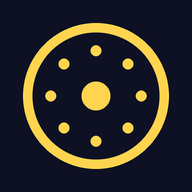
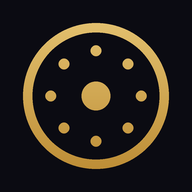
Add files via upload

diff --git a/index.html b/index.html
@@ -3,105 +3,114 @@
 <head>
 <meta charset="UTF-8">
 <meta name="viewport" content="width=device-width, initial-scale=1.0, maximum-scale=1.0, user-scalable=no">
-<meta name="theme-color" content="#0e1123">
+<meta name="theme-color" content="#0B0B12">
 <link rel="manifest" href="manifest.json">
 <link rel="apple-touch-icon" href="icon-192.png">
 <meta name="apple-mobile-web-app-capable" content="yes">
-<title>八咫鏡 — ロット計算機</title>
+<link rel="preconnect" href="https://fonts.googleapis.com"><link rel="preconnect" href="https://fonts.gstatic.com" crossorigin>
+<link href="https://fonts.googleapis.com/css2?family=Shippori+Mincho:wght@500;700&display=swap" rel="stylesheet">
+<title>八咫鏡・序</title>
 <style>
   :root{
-    --ink:#0e1123; --panel:#1a1a2e; --panel2:#16213e; --line:#333366;
-    --buy:#00E676; --sell:#FF1744; --qty:#FFD54F; --sl:#E040FB; --cy:#4fc3f7;
-    --txt:#e8e8f0; --dim:#8a8aa8; --warn:#FF1744;
-    --mono:ui-monospace,"SF Mono","Cascadia Mono","Roboto Mono",Menlo,monospace;
+    --ink:#0B0B12; --panel:#14141F; --panel2:#1A1726; --line:rgba(255,255,255,.08);
+    --txt:#E8E6F0; --dim:#8A889C; --faint:#5E5C70;
+    --g1:#E8C877; --g2:#B8862E; --take:#5FCF9A; --sora:#6FAEDC; --shu:#E0796B; --fuji:#A398D8;
+    --mono:ui-monospace,"SF Mono","Roboto Mono",Menlo,monospace;
     --sans:-apple-system,BlinkMacSystemFont,"Hiragino Sans","Noto Sans JP",sans-serif;
+    --mincho:"Shippori Mincho",serif;
   }
   *{margin:0;padding:0;box-sizing:border-box;-webkit-tap-highlight-color:transparent}
-  body{background:var(--ink);color:var(--txt);font-family:var(--sans);min-height:100vh;padding:14px 14px 40px;max-width:480px;margin:0 auto}
-  header{display:flex;align-items:baseline;gap:8px;margin-bottom:12px}
-  header h1{font-size:15px;font-weight:600;letter-spacing:.04em}
-  header .sub{font-size:11px;color:var(--dim)}
-  .tabs{display:grid;grid-template-columns:1fr 1fr;gap:8px;margin-bottom:12px}
-  .tab{padding:10px 4px;text-align:center;background:var(--panel);border:1px solid var(--line);border-radius:10px;font-size:14px;font-weight:600;color:var(--dim);cursor:pointer}
-  .tab .tf{display:block;font-size:10px;font-weight:400;margin-top:2px;color:var(--dim)}
-  .tab.on{color:var(--txt);border-color:#5555aa;background:var(--panel2)}
-  .tab.on.late{border-color:var(--cy)}
-  .card{background:var(--panel);border:1px solid var(--line);border-radius:12px;padding:14px;margin-bottom:12px}
-  .cap-label{font-size:11px;color:var(--dim);letter-spacing:.12em;margin-bottom:10px}
-  /* 完全に揃うグリッド: ラベル / 入力 / 単位 */
-  .row{display:grid;grid-template-columns:1fr 150px 40px;align-items:center;gap:10px;padding:6px 0}
+  body{background:var(--ink);color:var(--txt);font-family:var(--sans);min-height:100vh;padding:16px 13px 44px;max-width:480px;margin:0 auto}
+  .goldtext{background:linear-gradient(135deg,var(--g1) 25%,var(--g2) 95%);-webkit-background-clip:text;background-clip:text;color:transparent}
+  header{display:flex;align-items:center;gap:9px;margin-bottom:2px}
+  header img{width:24px;height:24px;border-radius:6px}
+  header h1{font-family:var(--mincho);font-size:21px;font-weight:700;letter-spacing:.05em}
+  header h1 span{font-size:14px}
+  .subttl{font-size:10.5px;color:var(--faint);margin:0 0 14px 33px}
+  .sec{display:flex;align-items:center;gap:10px;margin:16px 0 8px}
+  .sec h2{font-family:var(--mincho);font-size:11.5px;margin:0;letter-spacing:.3em;font-weight:600;color:var(--g1)}
+  .sec .rule{flex:1;height:1px;background:var(--line)}
+
+  .symtabs{display:flex;gap:7px;margin-bottom:8px}
+  .symtab{flex:1;background:var(--panel);color:var(--dim);border:1px solid var(--line);border-radius:10px;padding:9px 4px;font-size:12.5px;font-weight:600;text-align:center;cursor:pointer}
+  .symtab.on{background:var(--panel2);border-color:rgba(232,200,119,.5);color:var(--g1)}
+  .subtabs{display:flex;gap:7px;margin-bottom:14px}
+  .subtab{flex:1;background:var(--panel);color:var(--dim);border:1px solid var(--line);border-radius:10px;padding:7px 4px;font-size:11.5px;text-align:center;cursor:pointer}
+  .subtab.on{background:var(--panel2);border-color:rgba(111,174,220,.5);color:var(--sora)}
+
+  .card{background:var(--panel);border:1px solid var(--line);border-radius:12px;padding:13px;margin-bottom:10px}
+  .cap-label{font-size:10.5px;color:var(--faint);letter-spacing:.1em;margin-bottom:9px}
+
+  .out{background:var(--panel);border:1px solid rgba(232,200,119,.3);border-radius:14px;padding:16px 14px;margin-bottom:10px;text-align:center}
+  .out .cap{font-size:10.5px;color:var(--faint);letter-spacing:.15em}
+  .out .big{font-family:var(--mono);font-size:62px;font-weight:700;line-height:1.1;margin:4px 0;
+    background:linear-gradient(135deg,var(--g1) 20%,var(--g2) 100%);-webkit-background-clip:text;background-clip:text;color:transparent}
+  .out .big.ng{font-size:20px;padding:14px 0;line-height:1.6;background:none;color:var(--shu);-webkit-text-fill-color:var(--shu)}
+  .out .mid{font-family:var(--mono);font-size:14px;color:var(--dim)}
+  .out .mid b{color:var(--g1);font-weight:600}
+  .out .risk{font-size:11.5px;color:var(--faint);margin-top:6px}
+
+  #verdict{display:none;border-radius:11px;padding:12px;margin-top:10px;text-align:center;font-size:14px;font-weight:600;line-height:1.7}
+  #shield{display:none;border:1px solid rgba(111,174,220,.4);background:rgba(111,174,220,.06);border-radius:11px;padding:9px 12px;margin-bottom:10px;font-size:11.5px;color:var(--sora);text-align:center;line-height:1.6}
+  .mirror{display:none;border:1px solid rgba(224,121,107,.4);background:rgba(224,121,107,.06);border-radius:11px;padding:9px 12px;margin-bottom:10px;font-size:11.5px;color:var(--shu);text-align:center;line-height:1.6}
+  .mirror b{font-family:var(--mono);font-size:13.5px}
+
   .grid2{display:grid;grid-template-columns:1fr 1fr;gap:8px}
-  .cell label{font-size:10px;color:var(--dim);display:block;margin-bottom:3px}
-  .cell input{width:100%;padding:8px 10px;background:var(--ink);border:1px solid var(--line);border-radius:8px;color:var(--txt);font-family:var(--mono);font-size:17px;text-align:right;outline:none;box-sizing:border-box}
-  .cell.auto input{border-style:dashed;color:var(--cy)}
-  .row label{font-size:13px;color:var(--dim)}
-  .row input{width:100%;padding:10px 12px;background:var(--ink);border:1px solid var(--line);border-radius:8px;color:var(--txt);font-family:var(--mono);font-size:20px;text-align:right;outline:none}
-  .row input:focus{border-color:#5555aa}
-  .row .unit{font-size:12px;color:var(--dim)}
-  .row.hl input{border-color:var(--sl);color:var(--sl)}
-  .row.auto input{border-style:dashed;color:var(--cy)}
-  #paste{width:100%;padding:11px 12px;background:var(--ink);border:1px dashed #5555aa;border-radius:8px;color:var(--txt);font-size:13px;margin-bottom:8px}
-  #fetchBtn{width:100%;padding:11px;background:var(--panel2);border:1px solid #5555aa;border-radius:8px;color:var(--cy);font-size:13px;font-weight:600;cursor:pointer}
-  .out{background:var(--panel2);border:1px solid var(--line);border-radius:12px;padding:16px 14px;margin-bottom:12px;text-align:center}
-  .out .cap{font-size:11px;color:var(--dim);letter-spacing:.15em}
-  .out .big{font-family:var(--mono);font-size:64px;font-weight:700;color:var(--qty);line-height:1.15;margin:2px 0}
-  .out .big.ng{font-size:23px;color:var(--warn);padding:18px 0;line-height:1.5}
-  .out .mid{font-family:var(--mono);font-size:15px;color:var(--txt)}
-  .out .mid b{color:var(--qty);font-weight:600}
-  .out .risk{font-size:12px;color:var(--dim);margin-top:6px}
-  #verdict{display:none;border-radius:10px;padding:12px;margin-top:10px;text-align:center;font-size:15px;font-weight:600;line-height:1.7}
-  #shield{display:none;border:1px solid var(--cy);background:rgba(79,195,247,.08);border-radius:10px;padding:9px 12px;margin-bottom:12px;font-size:12px;color:var(--cy);text-align:center;line-height:1.6}
-  .mirror{display:none;border:1px solid rgba(255,23,68,.45);background:rgba(255,23,68,.08);border-radius:10px;padding:9px 12px;margin-bottom:12px;font-size:12px;color:#ff8fa3;text-align:center;line-height:1.6}
-  .mirror b{font-family:var(--mono);color:var(--warn);font-size:14px}
-  .srow{display:flex;justify-content:space-between;align-items:baseline;font-size:13px;color:var(--dim);padding:4px 0}
-  .srow b{font-family:var(--mono);font-size:15px;color:var(--txt)}
-  .srow b.pos{color:var(--buy)} .srow b.neg{color:var(--sell)}
-  details{background:var(--panel);border:1px solid var(--line);border-radius:12px;padding:12px 14px;margin-bottom:10px}
-  summary{font-size:13px;color:var(--dim);cursor:pointer;list-style:none}
+  .cell label{font-size:10px;color:var(--faint);display:block;margin-bottom:4px}
+  .cell input{width:100%;padding:9px 10px;background:var(--ink);border:1px solid var(--line);border-radius:9px;color:var(--txt);font-family:var(--mono);font-size:17px;text-align:right;outline:none}
+  .cell input:focus{border-color:rgba(232,200,119,.5)}
+  .cell.auto input{border-style:dashed;color:var(--sora)}
+  .row{display:grid;grid-template-columns:1fr 140px 30px;align-items:center;gap:9px;padding:5px 0}
+  .row label{font-size:12px;color:var(--dim)}
+  .row input{width:100%;padding:9px 11px;background:var(--ink);border:1px solid var(--line);border-radius:9px;color:var(--txt);font-family:var(--mono);font-size:18px;text-align:right;outline:none}
+  .row input:focus{border-color:rgba(232,200,119,.5)}
+  .row .unit{font-size:11px;color:var(--faint)}
+  .row.hl input{border-color:rgba(163,152,216,.6);color:var(--fuji)}
+  .row.auto input{border-style:dashed;color:var(--sora)}
+
+  #paste{width:100%;padding:10px 12px;background:var(--ink);border:1px dashed rgba(255,255,255,.15);border-radius:9px;color:var(--txt);font-size:12.5px;margin-bottom:8px;font-family:var(--mono)}
+  #fetchBtn{width:100%;padding:11px;background:var(--panel2);border:1px solid rgba(232,200,119,.4);border-radius:9px;color:var(--g1);font-size:12.5px;font-weight:600;cursor:pointer;letter-spacing:.05em}
+  #fetchBtn:active{background:#221E30}
+
+  .srow{display:flex;justify-content:space-between;align-items:baseline;font-size:12.5px;color:var(--dim);padding:4px 0}
+  .srow b{font-family:var(--mono);font-size:14px;color:var(--txt)}
+  .srow b.pos{color:var(--take)} .srow b.neg{color:var(--shu)}
+  details{background:var(--panel);border:1px solid var(--line);border-radius:12px;padding:11px 13px;margin-bottom:10px}
+  summary{font-size:12px;color:var(--dim);cursor:pointer;list-style:none}
   summary::-webkit-details-marker{display:none}
-  summary::before{content:'▸ ';color:var(--dim)}
-  details[open] summary::before{content:'▾ '}
-  details ol{margin:10px 0 4px 20px;font-size:13px;line-height:2}
-  details li b{color:var(--qty)}
+  summary::before{content:'\25b8 ';color:var(--faint)}
+  details[open] summary::before{content:'\25be '}
+  details ol{margin:10px 0 4px 20px;font-size:12.5px;line-height:2;color:var(--dim)}
+  details li b{color:var(--g1)}
   details.sub{border:none;background:none;padding:6px 0 0;margin:0}
-  details.sub summary{font-size:11px;color:#55557a}
-  footer{font-size:10px;color:#55557a;text-align:center;margin-top:8px;line-height:1.7}
+  details.sub summary{font-size:10.5px;color:var(--faint)}
+  footer{font-family:var(--mincho);font-size:9.5px;color:#3A3848;text-align:center;margin-top:22px;line-height:2;letter-spacing:.1em}
   .hide{display:none !important}
 </style>
 </head>
 <body>
-<header><h1>八咫鏡</h1><span class="sub">真のリスクを映す — リスク固定・複利対応</span></header>
+<header><img src="icon-192.png" alt=""><h1 class="goldtext">八咫鏡<span>・序</span></h1></header>
+<div class="subttl">真のリスクを映す ── 資金 × risk% ÷ SL幅</div>
 
-<div class="tabs">
-  <div class="tab on" id="t_fx_main" onclick="setTab('fx','main')">USDJPY<span class="tf">定時乗車</span></div>
-  <div class="tab" id="t_fx_late" onclick="setTab('fx','late')">USDJPY<span class="tf">後乗り判定</span></div>
-  <div class="tab" id="t_au_main" onclick="setTab('au','main')">金 XAUUSD<span class="tf">定時乗車</span></div>
-  <div class="tab" id="t_au_late" onclick="setTab('au','late')">金 XAUUSD<span class="tf">後乗り判定</span></div>
+<div class="symtabs">
+  <div class="symtab on" id="s_fx" onclick="setTab('fx',sub)">円 USDJPY</div>
+  <div class="symtab" id="s_au" onclick="setTab('au',sub)">金 XAUUSD</div>
+</div>
+<div class="subtabs">
+  <div class="subtab on" id="b_main" onclick="setTab(mode,'main')">定時乗車</div>
+  <div class="subtab" id="b_late" onclick="setTab(mode,'late')">後乗り判定</div>
 </div>
 
 <div class="card">
-  <input id="paste" type="text" placeholder="📋 TV通知を貼る or 下のボタンで自動取得">
-  <button id="fetchBtn">🔄 最新シグナルを自動取得</button>
+  <input id="paste" type="text" placeholder="TV通知を貼る / 下のボタンで取得">
+  <button id="fetchBtn">最新シグナルを取得</button>
   <details class="sub"><summary>接続設定(初回のみ)</summary>
     <div class="row"><label>Worker URL</label><input id="wurl" type="text" placeholder="https://..." style="font-size:11px"><span class="unit"></span></div>
     <div class="row"><label>合言葉(key)</label><input id="wkey" type="text" placeholder="KEY" style="font-size:11px"><span class="unit"></span></div>
   </details>
 </div>
 
-<div class="card" id="slCard" style="display:none">
-  <div class="cap-label">📍 現在のSL(TVのSL移動通知から自動)</div>
-  <div id="slInfo" style="font-size:13px;line-height:1.8"></div>
-</div>
-
-<div class="card" id="lateCard">
-  <div class="cap-label">後乗り判定 — 上2つは通知から自動</div>
-  <div class="row auto"><label>シグナル価格</label><input id="sigP" type="tel" inputmode="decimal" placeholder="自動"><span class="unit"></span></div>
-  <div class="row auto"><label>SL価格</label><input id="slP" type="tel" inputmode="decimal" placeholder="自動"><span class="unit"></span></div>
-  <div class="row hl"><label>現在価格(手打ち)</label><input id="nowP" type="tel" inputmode="decimal" placeholder="今のレート"><span class="unit"></span></div>
-  <div id="verdict"></div>
-</div>
-
-
+<div class="sec"><h2>答</h2><div class="rule"></div></div>
 
 <div class="out" id="out">
   <div class="cap" id="outCap">GMOに入力する数字</div>
@@ -109,8 +118,23 @@
   <div class="mid" id="mid">通知を貼れば自動で出る</div>
   <div class="risk" id="riskLine"></div>
 </div>
-
 <div class="mirror" id="mirror"></div>
+<div id="shield"></div>
+
+<div class="card" id="lateCard">
+  <div class="cap-label">後乗り判定 ── 上2つは通知から自動</div>
+  <div class="row auto"><label>シグナル価格</label><input id="sigP" type="tel" inputmode="decimal" placeholder="自動"><span class="unit"></span></div>
+  <div class="row auto"><label>SL価格</label><input id="slP" type="tel" inputmode="decimal" placeholder="自動"><span class="unit"></span></div>
+  <div class="row hl"><label>現在価格(手打ち)</label><input id="nowP" type="tel" inputmode="decimal" placeholder="今のレート"><span class="unit"></span></div>
+  <div id="verdict"></div>
+</div>
+
+<div class="card" id="slCard" style="display:none">
+  <div class="cap-label">現在のSL(TVの移動通知から自動)</div>
+  <div id="slInfo" style="font-size:13px;line-height:1.8"></div>
+</div>
+
+<div class="sec"><h2>条 件</h2><div class="rule"></div></div>
 
 <div class="card">
   <div class="grid2">
@@ -119,25 +143,23 @@
     <div class="cell auto" id="slwRow"><label id="slLabel">SL幅 <span id="slUnit">pips</span>(自動)</label><input id="slw" type="tel" inputmode="decimal" placeholder="自動"></div>
     <div class="cell" id="convRow" style="display:none"><label>円換算レート</label><input id="conv" type="tel" inputmode="decimal" value="161"></div>
   </div>
-  <details class="sub" id="shieldBox"><summary>🛡 盾を使う(DDブレーキ・任意)</summary>
+  <details class="sub" id="shieldBox"><summary>盾を使う(DDブレーキ・任意)</summary>
     <div class="row"><label>過去最高残高</label><input id="peak" type="tel" inputmode="numeric" placeholder="未使用なら空欄"><span class="unit">円</span></div>
-    <div style="font-size:10px;color:#55557a;line-height:1.6;padding-top:4px">入力すると、残高が過去最高から8%以上下の間だけリスクが自動半減。空欄なら固定リスクのまま。</div>
+    <div style="font-size:10px;color:var(--faint);line-height:1.6;padding-top:4px">入力すると、残高が過去最高から8%以上下の間だけリスクが自動半減。空欄なら固定リスクのまま。</div>
   </details>
 </div>
 
-<div id="shield"></div>
-
 <div class="card" id="statCard" style="display:none">
-  <div class="cap-label">この数量での統計の目安<span id="statSrc"></span></div>
+  <div class="cap-label">この数量での目安<span id="statSrc"></span></div>
   <div class="srow"><span>勝った時の平均(勝率<span id="stWr"></span>)</span><b class="pos" id="stWin"></b></div>
   <div class="srow"><span>負けた時の平均</span><b class="neg" id="stLose"></b></div>
   <div class="srow"><span>大勝(リスク3倍超)の頻度</span><b id="stBig"></b></div>
   <div class="srow" style="border-top:1px solid var(--line);padding-top:8px;margin-top:4px"><span>1回あたりの期待値</span><b class="pos" id="stEv"></b></div>
-  <div style="font-size:10px;color:#55557a;margin-top:8px;line-height:1.6">※19年の実データ平均。次の1回は誰にも分からない——<span style="color:var(--dim)">6割は負けで終わるのが仕様</span>。</div>
+  <div style="font-size:10px;color:var(--faint);margin-top:8px;line-height:1.6">19年の実データ平均。次の1回は誰にも分からない ── 6割は負けで終わるのが仕様。</div>
 </div>
 
 <details>
-  <summary>発注チェックリスト・遅刻分岐表</summary>
+  <summary>発注の作法・遅刻分岐</summary>
   <ol>
     <li>通知の方向・SL価格を確認</li>
     <li>数量を<b>二度見</b></li>
@@ -145,17 +167,18 @@
     <li>逆指値=押し安値/戻り高値・期限<b>無期限</b></li>
     <li>発注 → 記録表に記入</li>
   </ol>
-  <div style="font-size:12px;color:var(--dim);margin-top:10px;line-height:1.9">
-  <b style="color:var(--txt)">遅刻分岐表:</b><br>
-  即動ける→乗る / 50%以内→乗る(数量自動再計算) /<br>
+  <div style="font-size:11.5px;color:var(--dim);margin-top:10px;line-height:1.9">
+  <b style="color:var(--txt)">遅刻分岐:</b><br>
+  即動ける→乗る / 50%以内→乗る(数量再計算) /<br>
   50%超→見送り→再ブレイク<b>1〜2本目</b>で乗る /<br>
   SL割れ→死亡確認 / <b>押し目待ちは常に禁止</b>
   </div>
 </details>
 
-<footer>数式: 資金×リスク% ÷ SL幅<br>USDJPY=1000通貨切捨て / 金=0.1oz切捨て(0.1oz未満は見送り)</footer>
+<footer>陰 陽 寮<br>USDJPY=1000通貨切捨て / 金=0.1oz切捨て</footer>
 
 <script>
+
 let mode='fx', sub='main';
 const $=id=>document.getElementById(id);
 const fmt=n=>n.toLocaleString('ja-JP');
@@ -163,8 +186,10 @@ const STATS={fx:{wr:39,avgWin:1.45,avgLoss:-0.62,ev:0.189,big:4.7},au:{wr:36,avg
 
 function setTab(m,s){
   mode=m; sub=s;
-  ['t_fx_main','t_fx_late','t_au_main','t_au_late'].forEach(id=>$(id).classList.remove('on','late'));
-  const el=$('t_'+m+'_'+s); el.classList.add('on'); if(s==='late') el.classList.add('late');
+  ['s_fx','s_au'].forEach(id=>$(id).classList.remove('on'));
+  $('s_'+m).classList.add('on');
+  ['b_main','b_late'].forEach(id=>$(id).classList.remove('on'));
+  $('b_'+s).classList.add('on');
   $('lateCard').classList.toggle('hide', s!=='late');
   $('slwRow').classList.toggle('hide', s==='late');
   $('convRow').style.display = (m==='au')?'grid':'none';
@@ -321,6 +346,7 @@ function load(){
 ['cap','peak','risk','slw','conv'].forEach(id=>$(id).addEventListener('input',calc));
 ['sigP','slP','nowP'].forEach(id=>$(id).addEventListener('input',judgeLate));
 load(); setTab('fx','main');
+
 </script>
 <script>if('serviceWorker' in navigator){navigator.serviceWorker.register('sw.js').catch(()=>{})}</script>
 </body>

diff --git a/sw.js b/sw.js
@@ -1,4 +1,4 @@
-const C='v2calc-v11';
+const C='v2calc-jo1';
 const FILES=['./index.html','./manifest.json','./icon-192.png','./icon-512.png'];
 self.addEventListener('install',e=>{e.waitUntil(caches.open(C).then(c=>c.addAll(FILES)));self.skipWaiting()});
 self.addEventListener('activate',e=>{e.waitUntil(caches.keys().then(ks=>Promise.all(ks.filter(k=>k!==C).map(k=>caches.delete(k)))));self.clients.claim()});
